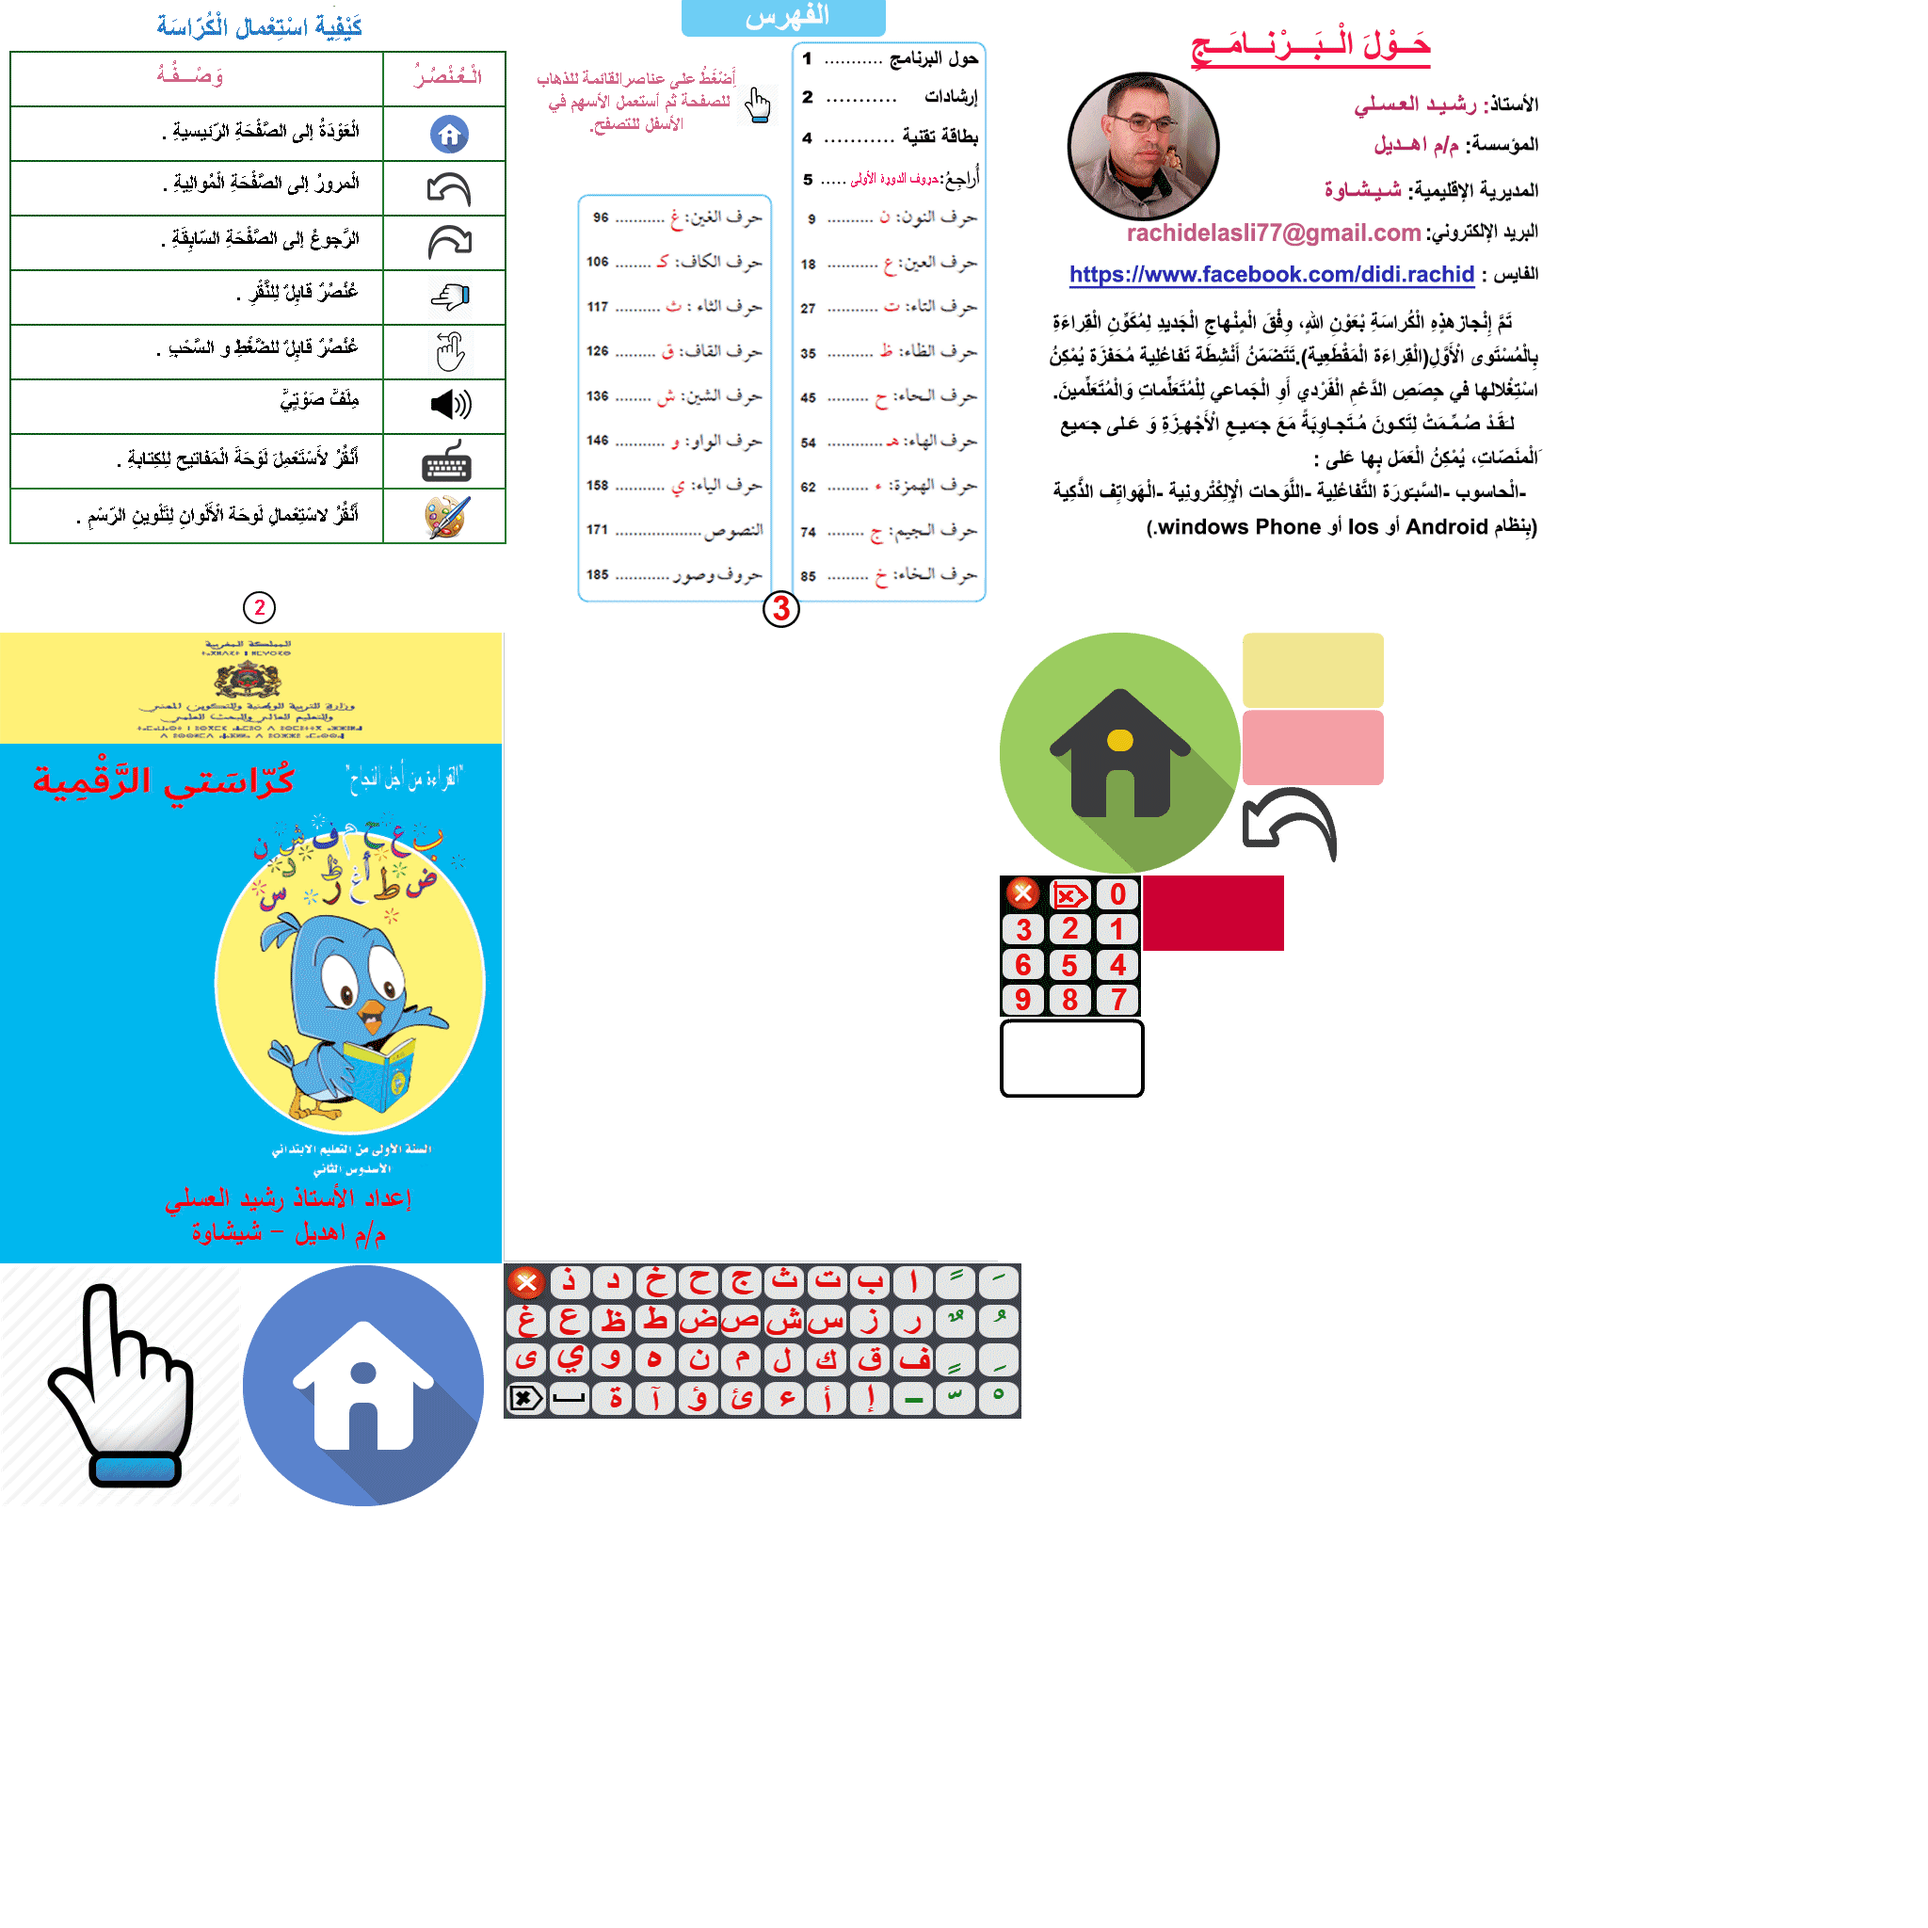
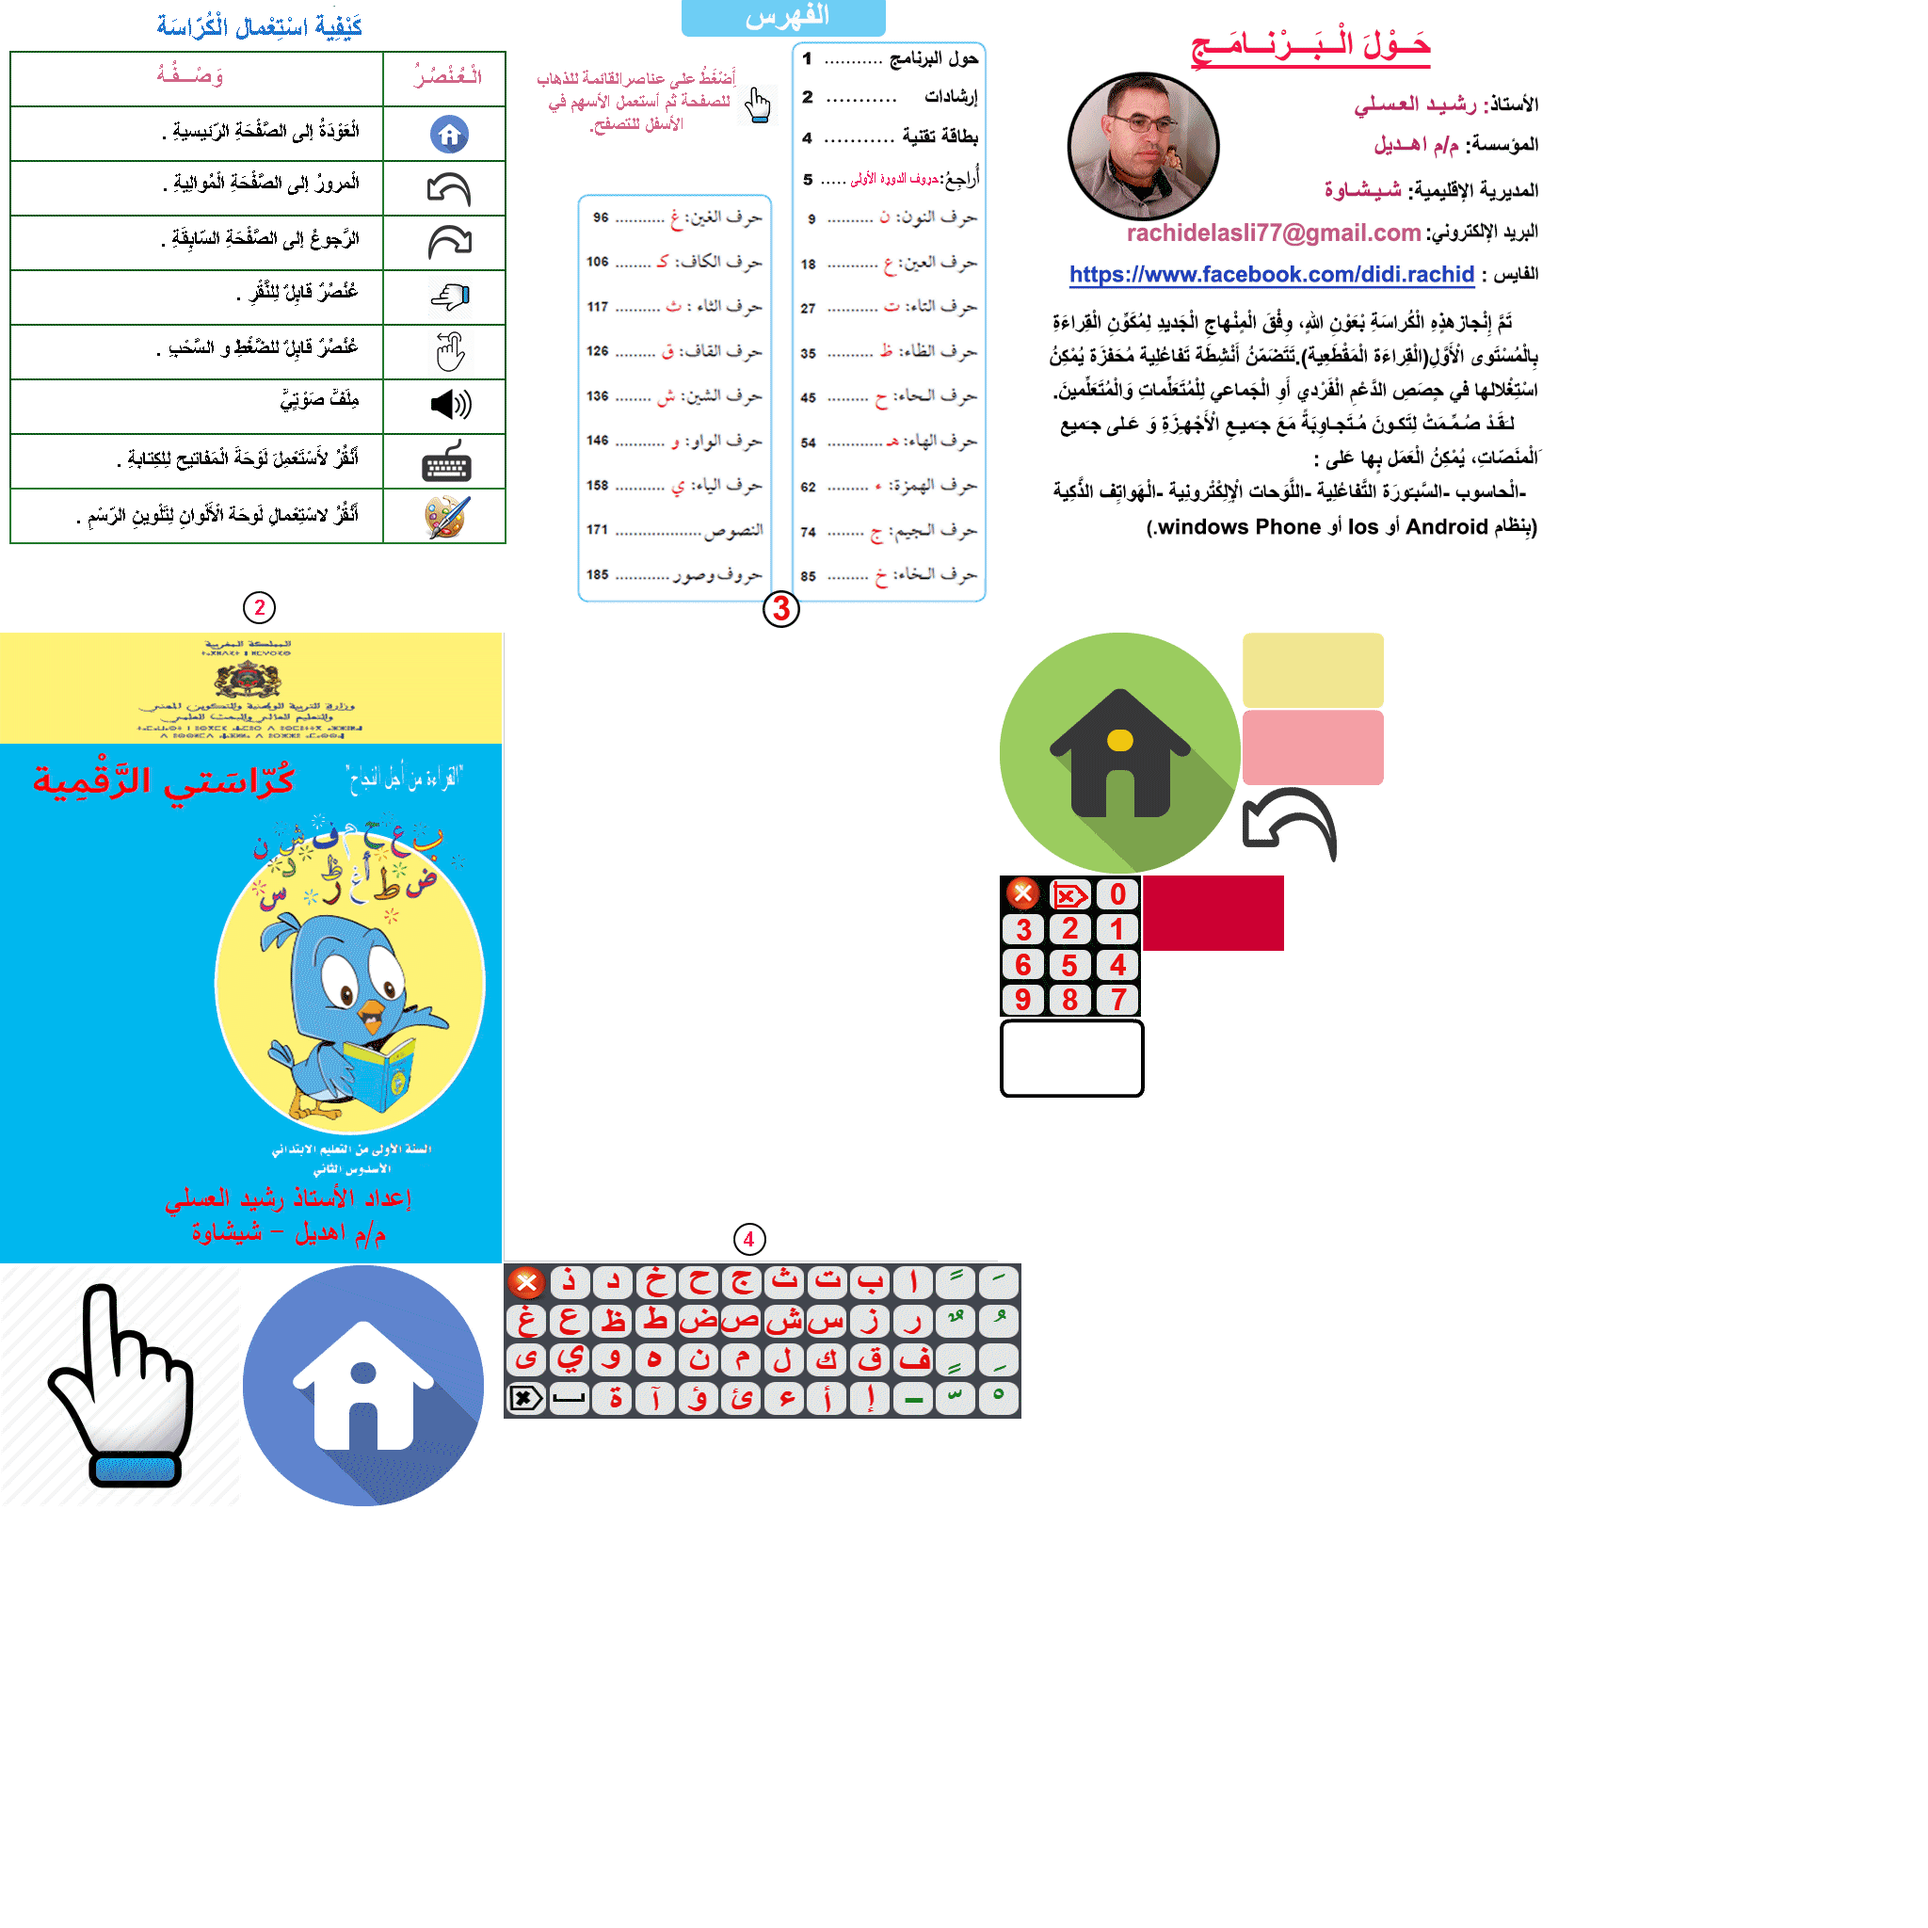
m2

diff --git a/index.js b/index.js
@@ -74,7 +74,7 @@ lib.ssMetadata = [
 
 
 
-(lib.p4i = function() {
+(lib.p4i1 = function() {
 	this.spriteSheet = ss["index_atlas_"];
 	this.gotoAndStop(9);
 }).prototype = p = new cjs.Sprite();
@@ -171,7 +171,7 @@ function getMCSymbolPrototype(symbol, nominalBounds, frameBounds) {
 	this.text_3.parent = this;
 	this.text_3.setTransform(276.7,11.4);
 
-	this.instance = new lib.p4i();
+	this.instance = new lib.p4i1();
 	this.instance.parent = this;
 	this.instance.setTransform(0,0,1.048,1.003);
 
@@ -184,17 +184,10 @@ function getMCSymbolPrototype(symbol, nominalBounds, frameBounds) {
 	this.initialize(mode,startPosition,loop,{});
 
 	// Layer_1
-	this.text = new cjs.Text("2", "bold 23px 'Arial'");
-	this.text.textAlign = "center";
-	this.text.lineHeight = 28;
-	this.text.lineWidth = 100;
-	this.text.parent = this;
-	this.text.setTransform(268.1,633.2);
-
 	this.instance = new lib._2();
 	this.instance.parent = this;
 
-	this.timeline.addTween(cjs.Tween.get({}).to({state:[{t:this.instance},{t:this.text}]}).wait(1));
+	this.timeline.addTween(cjs.Tween.get(this.instance).wait(1));
 
 }).prototype = getMCSymbolPrototype(lib.p2, new cjs.Rectangle(0,0,550,670), null);
 
